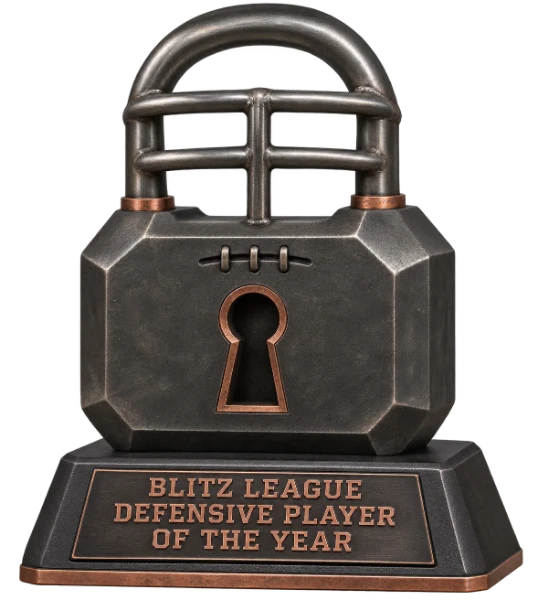
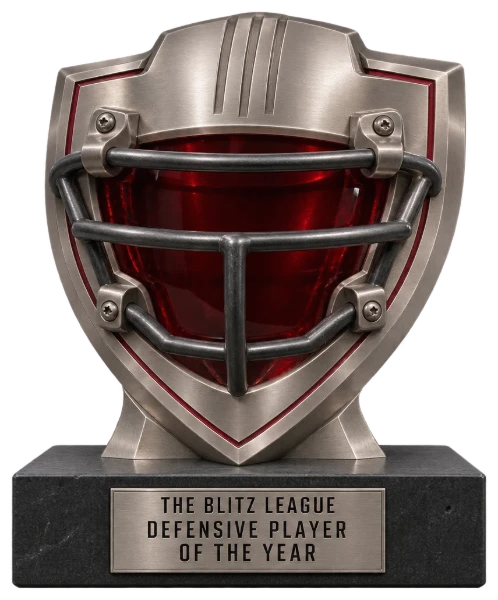
Award trophies: new Rookie of the Year trophy, upgraded Offensive and Defensive Player of the Year
- ROY trophy on the Awards panel, the Almanac trophy case (now three across) and a ROY race slide on the home carousel.
- OPOY and DPOY art replaced with the upgraded set; app cache bumped to blitz-v6 so installed apps load it.

Claude-Session: https://claude.ai/code/session_01S7LwiiyyHj7iuC9PJU7Hqr

diff --git a/js/almanac.js b/js/almanac.js
@@ -96,8 +96,9 @@
         <div class="plates">${plates.map(s => `<div class="plate${s === M.state.season ? ' now' : ''}"><b>${esc(s)}</b><span>${done[s] && done[s].champion ? esc(name(done[s].champion)) : s === M.state.season ? 'To be decided' : '&nbsp;'}</span></div>`).join('')}</div>
         ${M.history.some(s => s.champion) ? '' : `<div class="empty">No champion yet. The first Blitz League title is decided in the ${esc(M.state.season)} playoffs.</div>`}
       </div></section>
-      ${[['opoy', 'Offensive Player of the Year', 'QB, RB, WR and TE: most points scored as a starter'], ['dpoy', 'Defensive Player of the Year', 'DL, LB and DB: most points scored as a starter']]
-        .filter(([k]) => (M.league.awardTrophies || {})[k]).map(([k, name, how]) => `<a class="panel s6 award-case" href="awards.html#players">
+      ${[['opoy', 'Offensive Player of the Year', 'QB, RB, WR and TE: most points scored as a starter'], ['dpoy', 'Defensive Player of the Year', 'DL, LB and DB: most points scored as a starter'],
+        ['roy', 'Rookie of the Year', 'First-year players at any position: most points scored as a starter']]
+        .filter(([k]) => (M.league.awardTrophies || {})[k]).map(([k, name, how], i, all) => `<a class="panel ${all.length > 2 ? 's4' : 's6'} award-case" href="awards.html#players">
         <img src="${esc(M.league.awardTrophies[k])}" alt="The Blitz League ${esc(name)} trophy">
         <div><span class="eyebrow">Player award</span><h2>${esc(name)}</h2><p class="pmeta">${esc(how)}. Named after the regular season. ${M.state.season} race: see the Awards page.</p></div></a>`).join('')}
       <section class="panel s12"><header><div><span class="eyebrow">Since ${M.league.founded}</span><h2>Seasons</h2></div></header>

diff --git a/js/home.js b/js/home.js
@@ -80,10 +80,10 @@
   }
 
   // Points each player has scored in finished games, credited to the team that started him most recently.
-  function playerRace(groups) {
+  function playerRace(groups, only) {
     const tot = {};
     for (const t of Object.values(M.teams)) for (const g of t.games.filter(x => x.final)) (g.me.starters || []).forEach((id, i) => {
-      if (!id || id === '0' || !groups.includes(P(id).position)) return;
+      if (!id || id === '0' || !groups.includes(P(id).position) || (only && !only(P(id)))) return;
       const p = tot[id] || (tot[id] = { id, v: 0, t, wk: 0 });
       p.v += (g.me.starters_points || [])[i] || 0;
       if (g.week >= p.wk) { p.wk = g.week; p.t = t; }
@@ -102,6 +102,8 @@
       races.push(raceSlide({ href: 'standings.html', art: M.league.trophy, title: 'Race for<br>the Gauntlet', sub: `Best records · through week ${through}`,
         rows: Object.values(M.teams).sort(order).slice(0, 4).map(t => ({ f: t.f, name: esc(t.f.location), sub: `${esc(t.division.name)} · ${f1(t.pf)} PF`, val: rec(t), unit: '' })) }));
       if (def.length) races.push(raceSlide({ href: 'awards.html#players', art: trophies.dpoy, title: 'Defensive Player<br>of the Year', sub: `Current top four · through week ${through}`, rows: def }));
+      const roy = playerRace([...OFF, ...DEF], p => p.years_exp === 0);
+      if (roy.length) races.push(raceSlide({ href: 'awards.html#players', art: trophies.roy, title: 'Rookie<br>of the Year', sub: `Current top four · through week ${through}`, rows: roy }));
     }
     // Game of the week, then a race after every second game, so the races spread through the rotation.
     const slides = [];

diff --git a/js/awards.js b/js/awards.js
@@ -312,7 +312,7 @@
         ${off.length ? tableOf(off) : '<div class="empty">No offensive player has started yet.</div>'}</section>
       <section class="panel s6"><header><div class="hwith">${trophy('dpoy')}<div><span class="eyebrow">DL · LB · DB ${honor('Defensive Player of the Year')}</span><h2>Defensive Player of the Year</h2></div></div><span class="aside">Through week ${through}</span></header>
         ${def.length ? tableOf(def) : `<div class="empty">${M.live ? 'No defensive player has started yet.' : 'The sample league has no defensive players. This race fills in once the real lineup, with its defensive slots, is set.'}</div>`}</section>
-      <section class="panel s6"><header><div><span class="eyebrow">First-year players ${honor('Rookie of the Year')}</span><h2>Rookie of the Year</h2></div></header>
+      <section class="panel s6"><header><div class="hwith">${trophy('roy')}<div><span class="eyebrow">First-year players ${honor('Rookie of the Year')}</span><h2>Rookie of the Year</h2></div></div><span class="aside">Through week ${through}</span></header>
         ${rookies.length ? tableOf(rookies) : '<div class="empty">No rookie has started a game yet.</div>'}</section>
       <section class="panel s6"><header><div><span class="eyebrow">Waivers and free agents ${honor('Pickup of the Year')}</span><h2>Pickup of the Year</h2></div></header>
         ${wire.length ? tableOf(wire, ['Added', p => `Week ${p.x.leg || '?'} · ${p.x.type === 'waiver' ? 'waivers' + (p.x.settings && p.x.settings.waiver_bid != null ? ` ($${p.x.settings.waiver_bid})` : '') : 'free agent'}`])

diff --git a/sw.js b/sw.js
@@ -1,7 +1,7 @@
 /* Offline support for the installed app. Same-origin GET requests only; Sleeper's API and photos go straight to the network.
    Pages, scripts, styles and data: network first, revalidated with the server (so updates show at once), saved copy when offline.
    Images under assets/: saved copy first (they rarely change). Bump VERSION to drop every saved copy. */
-const VERSION = 'blitz-v5';
+const VERSION = 'blitz-v6';
 self.addEventListener('install', () => self.skipWaiting());
 self.addEventListener('activate', e => e.waitUntil(
   caches.keys().then(keys => Promise.all(keys.filter(k => k !== VERSION).map(k => caches.delete(k)))).then(() => self.clients.claim())));

diff --git a/almanac.html b/almanac.html
@@ -39,7 +39,7 @@
 <script src="js/player.js?v=41fba4b0"></script>
 <script src="js/nfl.js?v=86693483"></script>
 <script src="js/firebase-config.js?v=411995c0"></script>
-<script src="js/almanac.js?v=cb3e476b"></script>
+<script src="js/almanac.js?v=64c6c5e8"></script>
 <script>if ('serviceWorker' in navigator && location.protocol === 'https:' && window.top === window) navigator.serviceWorker.register('sw.js').catch(() => {});</script>
 </body>
 </html>

diff --git a/awards.html b/awards.html
@@ -39,7 +39,7 @@
 <script src="js/player.js?v=41fba4b0"></script>
 <script src="js/nfl.js?v=86693483"></script>
 <script src="js/firebase-config.js?v=411995c0"></script>
-<script src="js/awards.js?v=10e10826"></script>
+<script src="js/awards.js?v=01118346"></script>
 <script>if ('serviceWorker' in navigator && location.protocol === 'https:' && window.top === window) navigator.serviceWorker.register('sw.js').catch(() => {});</script>
 </body>
 </html>

diff --git a/index.html b/index.html
@@ -38,7 +38,7 @@
 <script src="js/player.js?v=41fba4b0"></script>
 <script src="js/nfl.js?v=86693483"></script>
 <script src="js/firebase-config.js?v=411995c0"></script>
-<script src="js/home.js?v=d75a5e07"></script>
+<script src="js/home.js?v=64f47532"></script>
 <script>if ('serviceWorker' in navigator && location.protocol === 'https:' && window.top === window) navigator.serviceWorker.register('sw.js').catch(() => {});</script>
 </body>
 </html>
